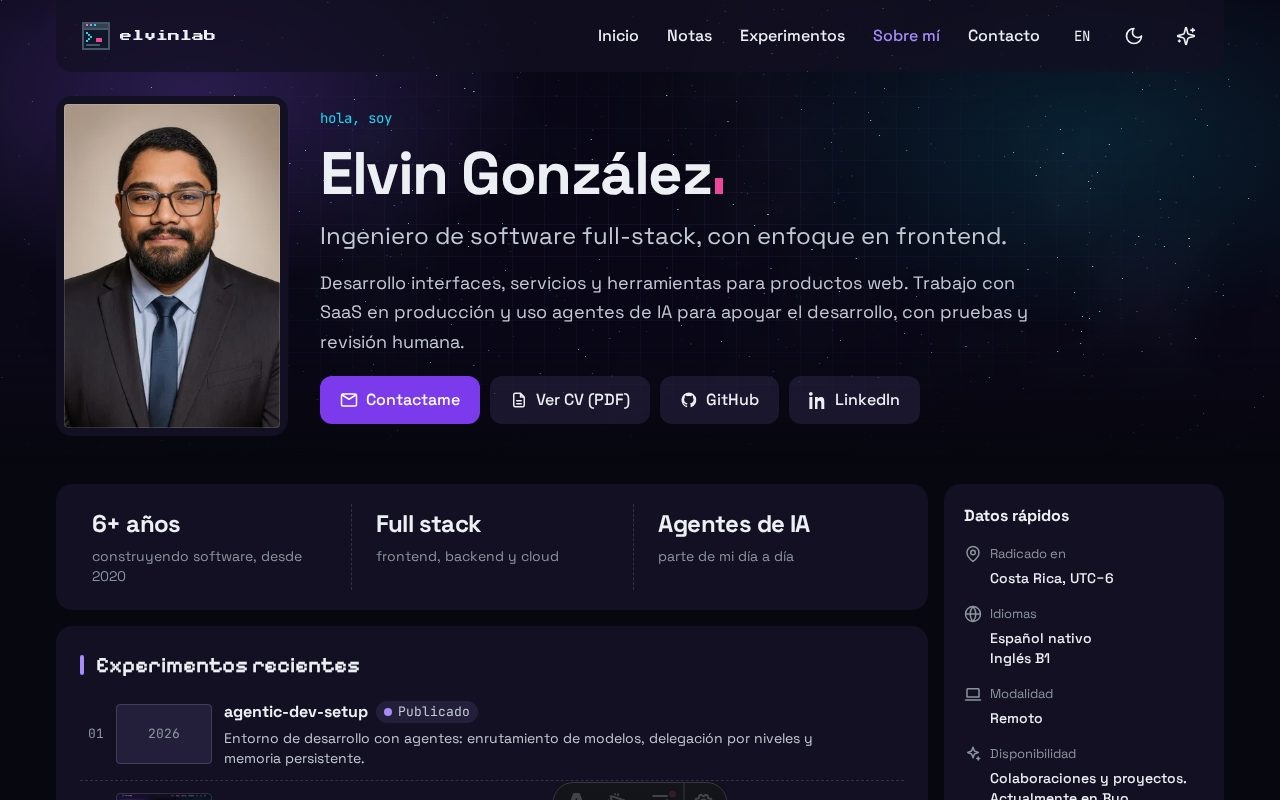
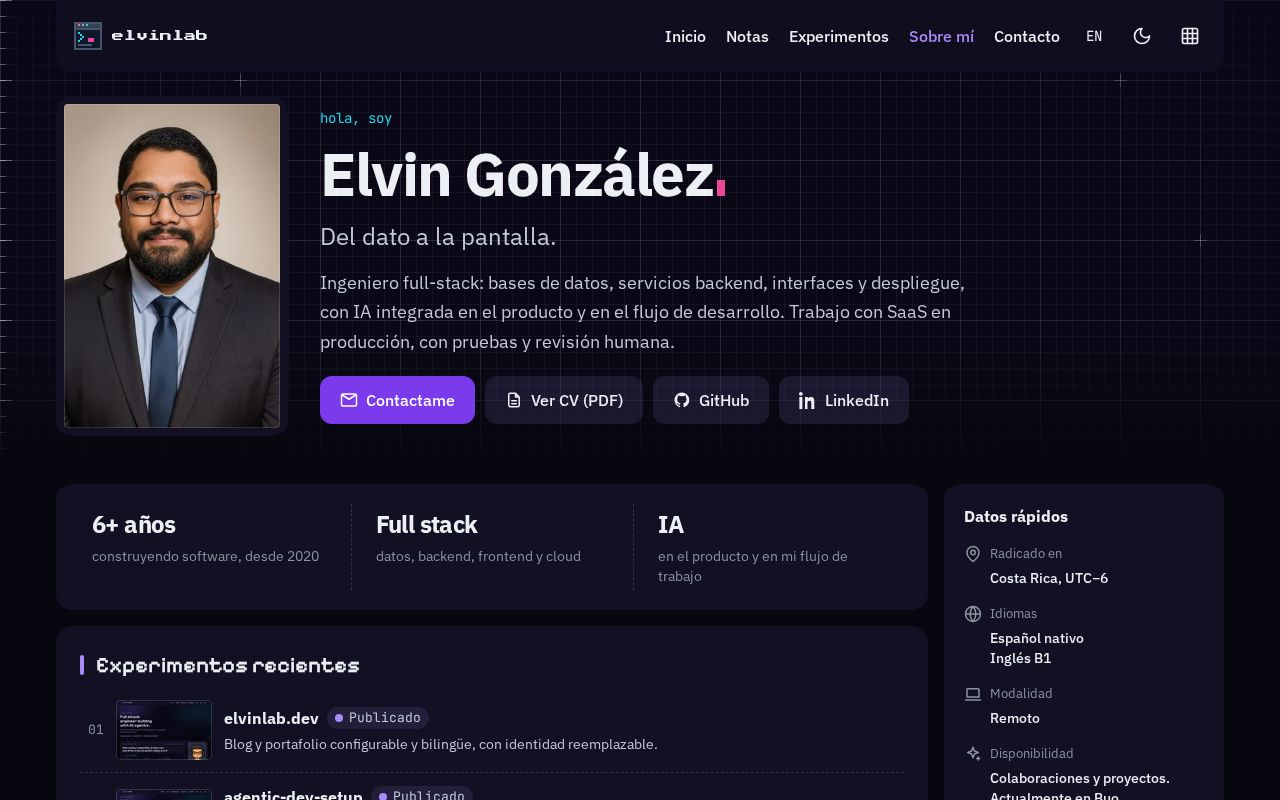
chore(experiments): retake the gallery screenshots from the current design
The five images still showed the pre-redesign home and note. Same file
names, alt text and captions; the changelog has the entry.

diff --git a/odd/tasks/identity-evolution.md b/odd/tasks/identity-evolution.md
@@ -88,7 +88,7 @@ Still open from this release
 Source: two read-only reviewers looked at 80 full-page screenshots (dark and light at 1440, dark at 390 and 820). The two P1 findings (header wraps to two rows at 820 px in Spanish; hero avatar caption clipped and under the collapse button at md to lg) are being fixed before the release and are listed here only for the record. Everything below is pending.
 
 Content and consistency
-- **P1-content, Experiments gallery screenshots are stale:** the carousel slides on `/experiments/` (and `/me` thumbnails) show the pre-redesign home (starfield, old headline, kicker, Space Grotesk). Retake them from the current build; on phones they are illegible at about 330 px, crop tighter; slides are always the Spanish UI even on `/en/`; thumbnails 2 to 4 are nearly invisible in dark. See docs/PORTFOLIO.md for how they are produced.
+- DONE (after release 16, not yet released): the five gallery images (`elvinlab-dev/{cover,me,contact,note}.jpg`, `agentic-dev-setup/cover.jpg`) were retaken from the current build at 1280 x 800, dark theme, with the Astro dev toolbar and the Cloudflare beacon blocked, so file names, alt and captions did not change. Evidence: viewed all five, `experiments`, `me-photo`, `performance`, `no-horizontal-overflow` specs (79 passed), build and `check:page-weight` (26 pages within budget). Still open from that item: on phones the slides are small (about 330 px wide) and the slides are always the Spanish UI even on `/en/`; thumbnails 2 to 4 are faint in dark.
 - **Inner pages left behind:** `/experiments/`, `/contact/`, `/changelog/`, `/privacy/`, `/terms/` have no lab-paper banner, only a bare title (about 60 px under the nav; privacy and terms about 30 px, plain bold instead of the pixel face, 680 px column with dead space). Give them the compact `/notes/` banner or at least the grid, and one shared page header.
 - **`/me` still reads templated:** every section is a boxed card; "Que aporto" is a 3-up strip of identical tiles with stock line icons, plus a second 3-up stats strip. Flatten to dashed-hairline sections like the home; turn "Que aporto" into a plain list.
 - **`/subscribe/`:** the content column is off the page grid (starts at x=400 at 1440, x=90 at 820 while header and footer start at 136 and 16); the pixel envelope above the title is decoration the redesign removed elsewhere.
